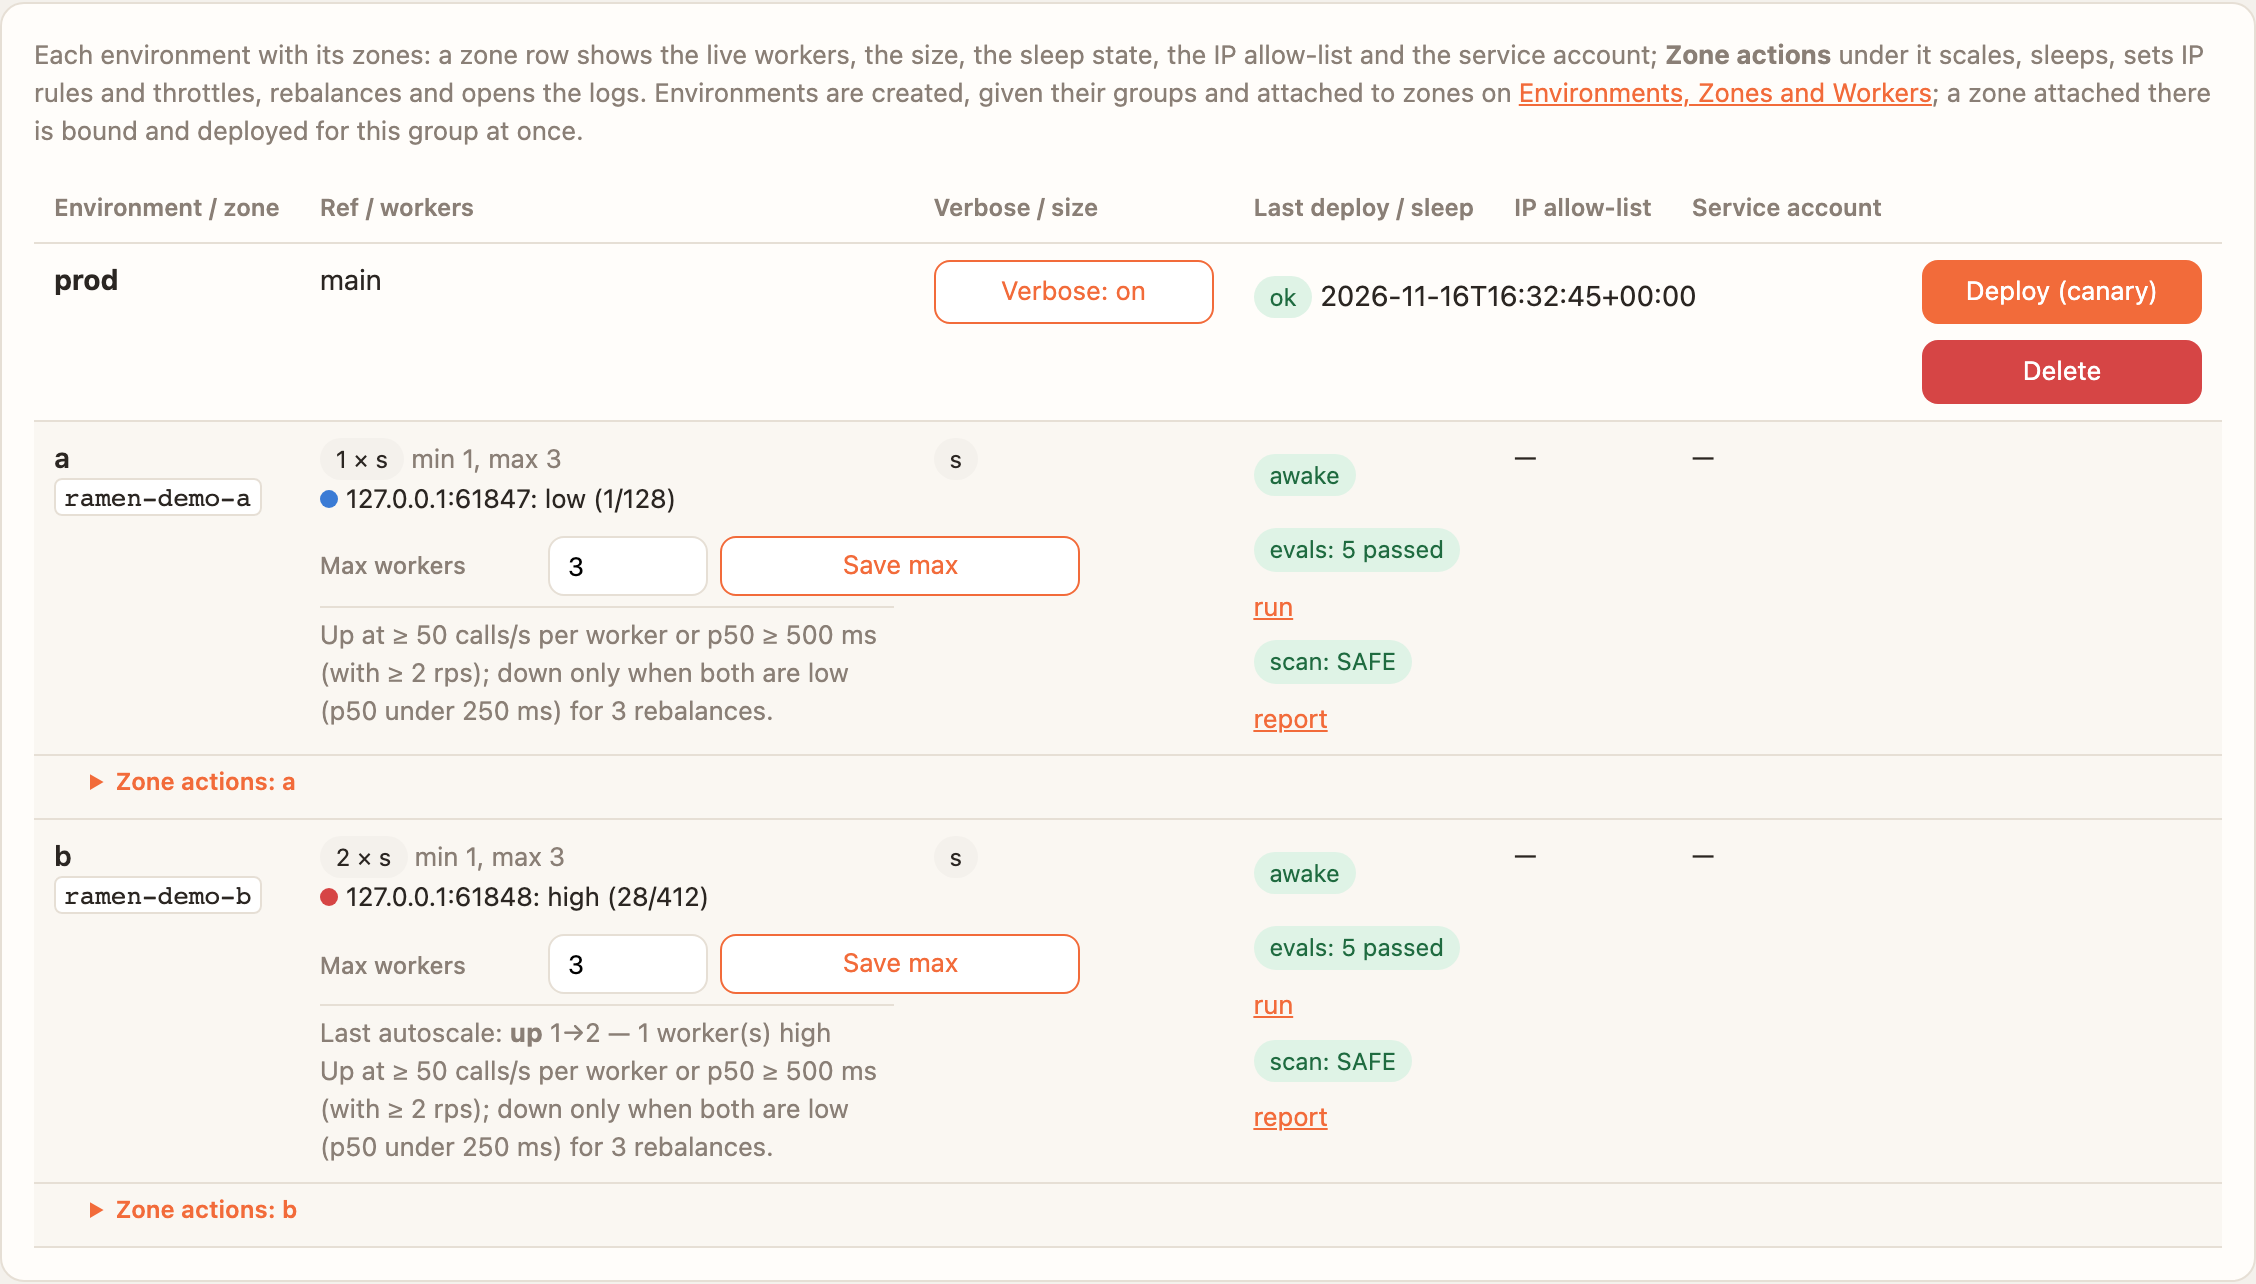
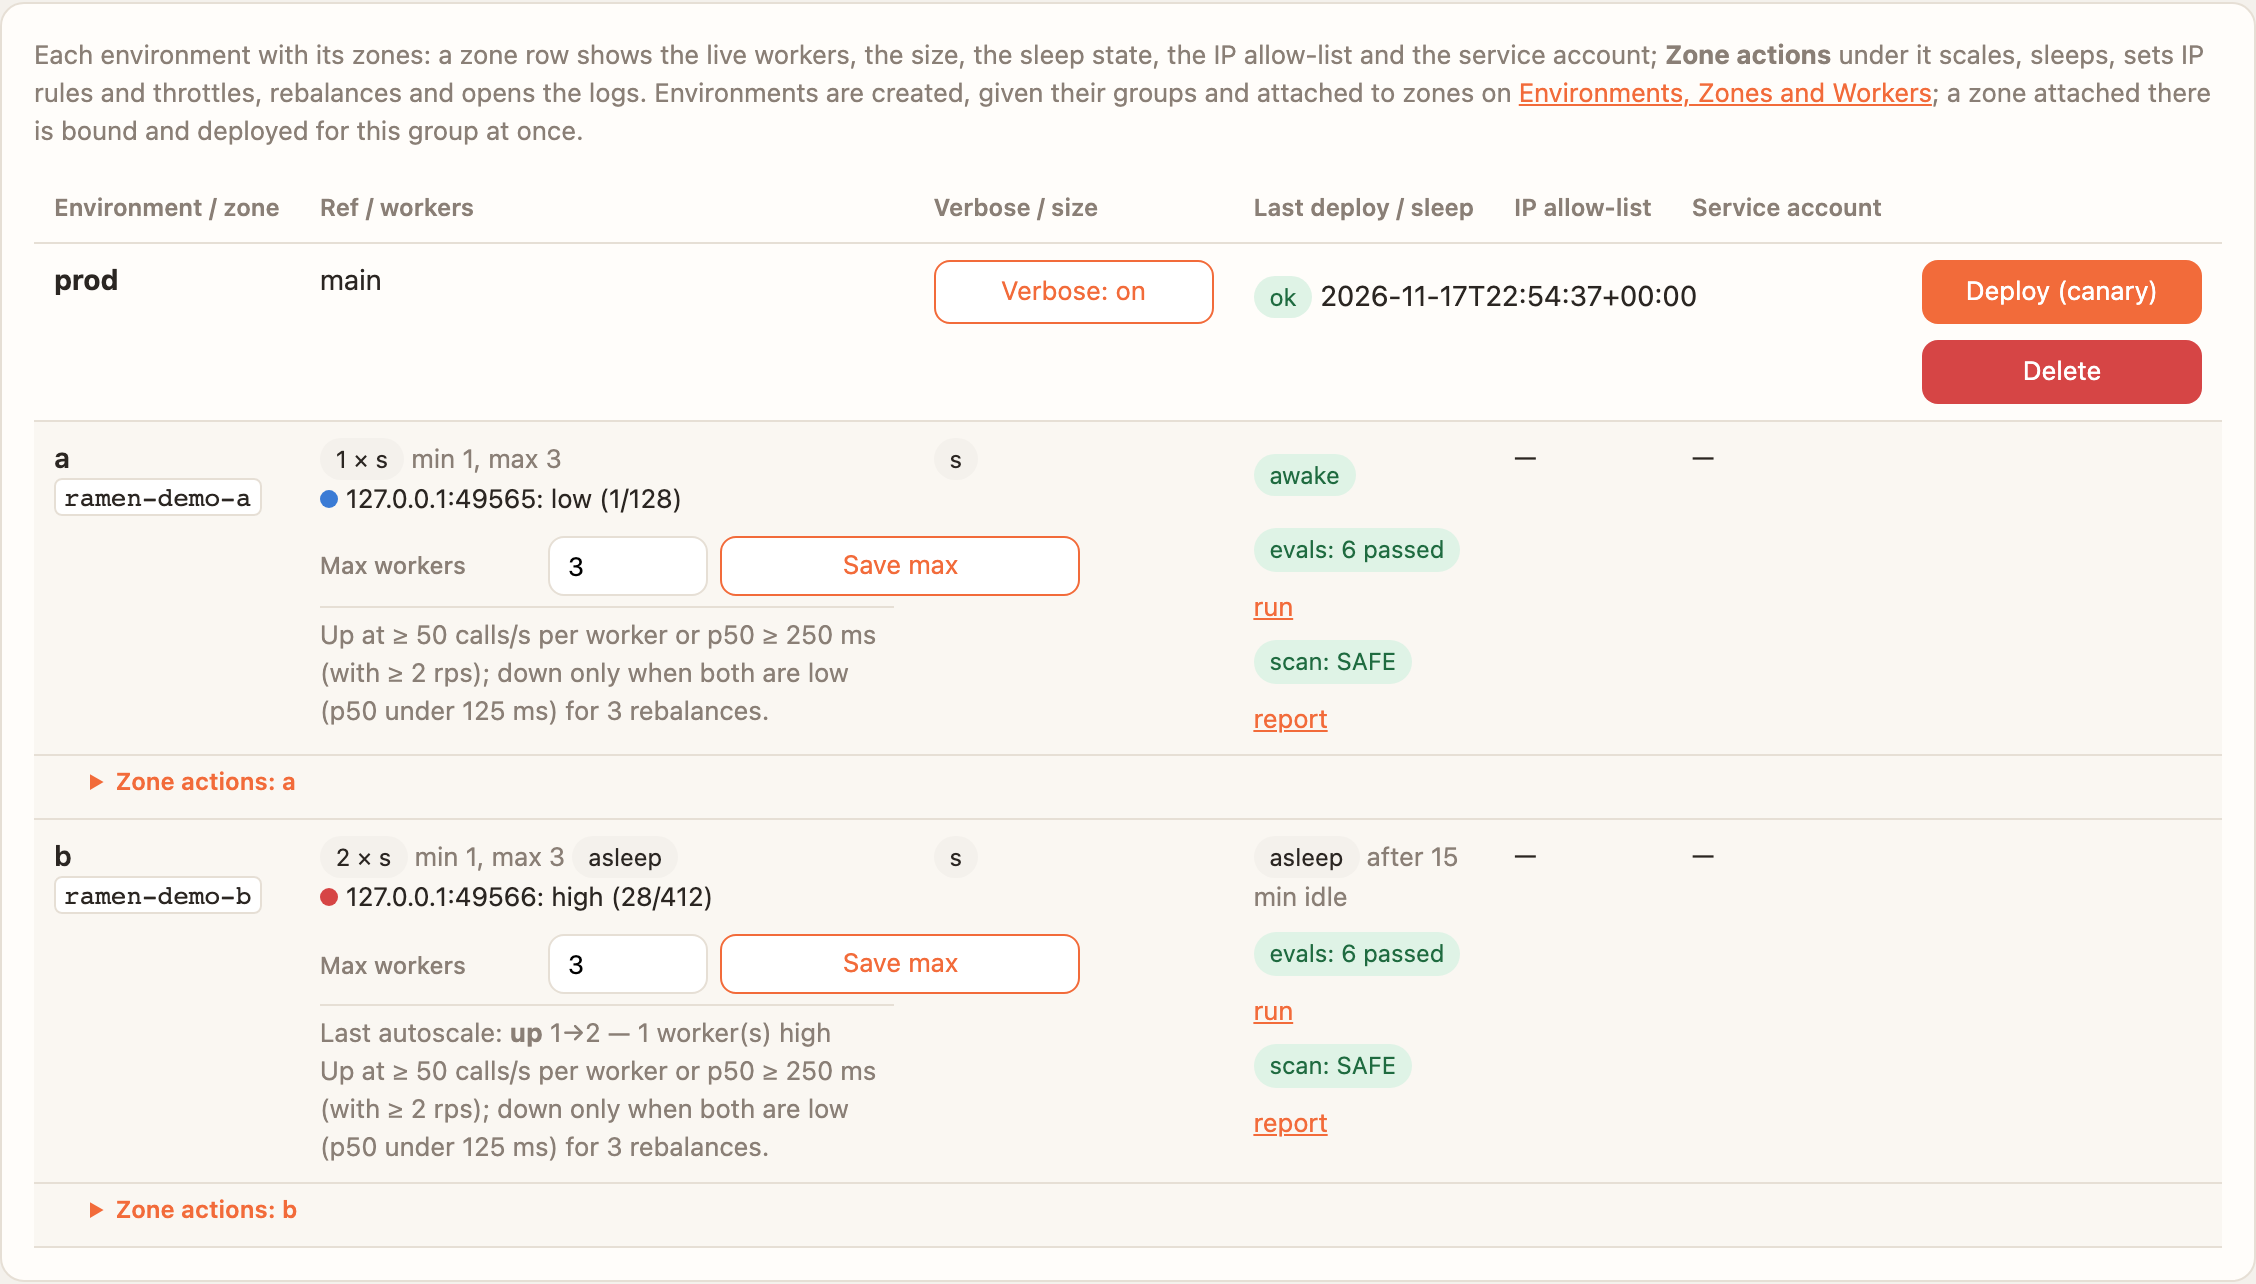
docs/img: 1.0.0 screenshots and the governance illustration
- how-ramen-governs.svg (logo embedded) and its 1200x627 PNG render
- live from the compose stack: mcp-user (filled connect commands), guardrail-blocked (Logs), phoenix-trace,
  local-group, local-deploy-job
- seeded (make shots): evals-report (new page; canned rows are the demo's six cases), group, group-autoscale and
  group-badges with zone b asleep
- shots.json records the compose set under live.compose

diff --git a/scripts/shots.py b/scripts/shots.py
@@ -105,6 +105,11 @@ PAGES = {
         "#policy-evals, #policy-scans, #policy-guardrails",  # one picture spanning the three cards
     ),
     "scan-report.png": ("{scan}", "Scan report: NVIDIA SkillSpector findings per skill for one zone's deploy", False),
+    "evals-report.png": (
+        "{evals}",
+        "Evals run: every promptfoo case of one zone's deploy with what it sent, what came back and its verdict",
+        False,
+    ),
     "configs.png": (
         "/groups/demo/configs",
         "LLM configs: the repo's mcp/llm-config/ as every member reads and accepts it",
@@ -266,11 +271,55 @@ targets:
 }
 
 
+# the demo repo's mcp/evals/promptfooconfig.yaml cases, answered as the live runs answered them (evals 6/0)
+EVAL_CASES = [
+    (
+        "calculator adds two numbers",
+        '{"tool": "demo_calculator_tool", "args": {"var1": 2, "var2": 3, "func": "add"}}',
+        "5",
+    ),
+    (
+        "word_count counts six words on one line",
+        '{"tool": "word_count", "args": {"text": "ramen is a bowl of noodles"}}',
+        '{"characters": 26, "words": 6, "lines": 1}',
+    ),
+    (
+        "unit_convert turns 100 celsius into 212 fahrenheit",
+        '{"tool": "unit_convert", "args": {"value": 100, "from_unit": "celsius", "to_unit": "fahrenheit"}}',
+        "212.0",
+    ),
+    (
+        "iris_describe counts 150 rows",
+        '{"tool": "iris_describe", "args": {}}',
+        '{"count": 150, "columns": {"sepal_length": …}}',
+    ),
+    (
+        "iris_outliers on sepal_width at z 2.5 returns at most 5 rows",
+        '{"tool": "iris_outliers", "args": {"column": "sepal_width", "z": 2.5}}',
+        '{"column": "sepal_width", "rows": […]}',
+    ),
+    (
+        "iris_group_means has three species",
+        '{"tool": "iris_group_means", "args": {"by": "species"}}',
+        '{"setosa": {…}, "versicolor": {…}, "virginica": {…}}',
+    ),
+]
+
+
 def _evals_log(group: str, zone: str) -> str:
-    rows = [{"success": True, "testCase": {"description": f"case {i + 1}"}} for i in range(5)]
+    rows = [
+        {
+            "success": True,
+            "testCase": {"description": d},
+            "prompt": {"raw": p},
+            "response": {"output": o},
+            "latencyMs": 40 + 9 * i,
+        }
+        for i, (d, p, o) in enumerate(EVAL_CASES)
+    ]
     doc = {
         "evalId": f"eval-{group}-{zone}",
-        "results": {"results": rows, "stats": {"successes": 5, "failures": 0, "errors": 0}},
+        "results": {"results": rows, "stats": {"successes": len(rows), "failures": 0, "errors": 0}},
         "shareableUrl": f"https://localhost:3443/eval/?evalId=eval-{group}-{zone}",
     }
     return f"promptfoo eval\nRAMEN_EVALS_RESULTS_BEGIN\n{json.dumps(doc)}\nRAMEN_EVALS_RESULTS_END\n"
@@ -475,13 +524,24 @@ def seed(client, repo: str | None = None) -> dict:
         json={"name": "Claude Desktop", "redirect_uris": ["http://127.0.0.1:9999/callback"]},
         headers=h(),
     )
-    scan = ""
+    scan = evals_url = ""
     for e in client.get("/api/v1/environments/by-name").json():
-        for _z, sc in sorted((((e.get("last_deploy") or {}).get("demo") or {}).get("skillspector") or {}).items()):
+        last = (e.get("last_deploy") or {}).get("demo") or {}
+        for _z, sc in sorted((last.get("skillspector") or {}).items()):
             scan = scan or sc.get("url") or ""
+        for _z, ev in sorted((last.get("evals") or {}).items()):
+            evals_url = evals_url or ev.get("url") or ""
     if not scan:
         print("seed: the deploy recorded no scan report; scan-report.png will be skipped", file=sys.stderr)
-    return {"consent": consent_query(oc.json()["client_id"], "demo", "a"), "scan": scan, "app_zone": "a"}
+    # 1.0.0: zone b sleeps after 15 idle minutes and is asleep now (the local adapter only flips the state)
+    client.put("/api/v1/groups/demo/zones/b/workers", json={"sleep_after_secs": 900}, headers=h())
+    client.post("/api/v1/groups/demo/zones/b/sleep", headers=h())
+    return {
+        "consent": consent_query(oc.json()["client_id"], "demo", "a"),
+        "scan": scan,
+        "evals": evals_url,
+        "app_zone": "a",
+    }
 
 
 def wait_job(client, jid, secs: int = 120) -> None:
@@ -581,6 +641,9 @@ def capture(
                 values.update(live_engines(page, base))
             if "{scan}" in path and not values.get("scan"):
                 print(f"{name}: the console has no scan report yet; skipped", file=sys.stderr)
+                continue
+            if "{evals}" in path and not values.get("evals"):
+                print(f"{name}: the console has no evals run yet; skipped", file=sys.stderr)
                 continue
             if name == "login.png":  # the one page that must not be signed in
                 page.goto(f"{base}/logout")
